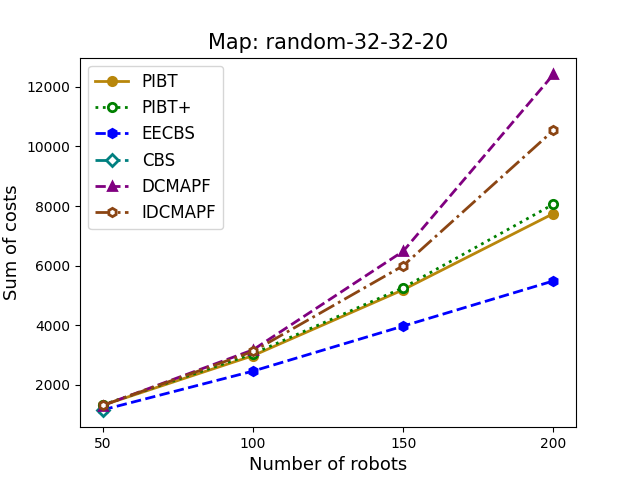
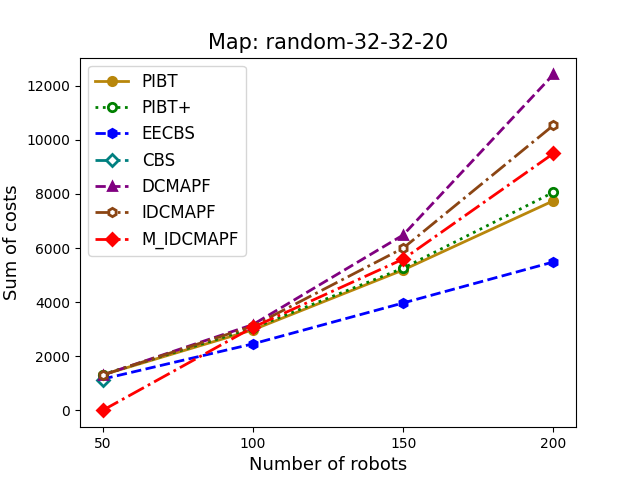
.

diff --git a/Comparison_with_stateoftheart/plot_data.py b/Comparison_with_stateoftheart/plot_data.py
@@ -53,7 +53,7 @@ random_32_32_20_EECBS_SOC = [1156.24, 2458.0, 3970.25, 5486.5]
 random_32_32_20_CBS_SOC = [1140.6666666666667]
 random_32_32_20_DCMAPF_SOC = [1302.64, 3170.84, 6481.44, 12417.2]
 random_32_32_20_IDCMAPF_SOC = [1306.8, 3117.56, 5995.52, 10538.28]
-random_32_32_20_M_IDCMAPF_SOC = []
+random_32_32_20_M_IDCMAPF_SOC = [0.0000000000, 3068, 5589.54, 9495.18]
 
 random_32_32_20_PIBT_SR = [0.92, 0.56, 0.44, 0.16]
 random_32_32_20_PIBT_PLUS_SR = [1.0, 1.0, 1.0, 1.0]
@@ -61,7 +61,7 @@ random_32_32_20_EECBS_SR = [1.0, 1.0, 0.96, 0.08]
 random_32_32_20_CBS_SR = [0.84]
 random_32_32_20_DCMAPF_SR = [1.0, 1.0, 1.0, 1.0]
 random_32_32_20_IDCMAPF_SR = [1.0, 1.0, 1.0, 1.0]
-random_32_32_20_M_IDCMAPF_SR = []
+random_32_32_20_M_IDCMAPF_SR = [0.00000, 1.0, 1.0, 1-0.008]
 random_32_32_20_density = [50,100,150,200]
 
 # empty-48-48
